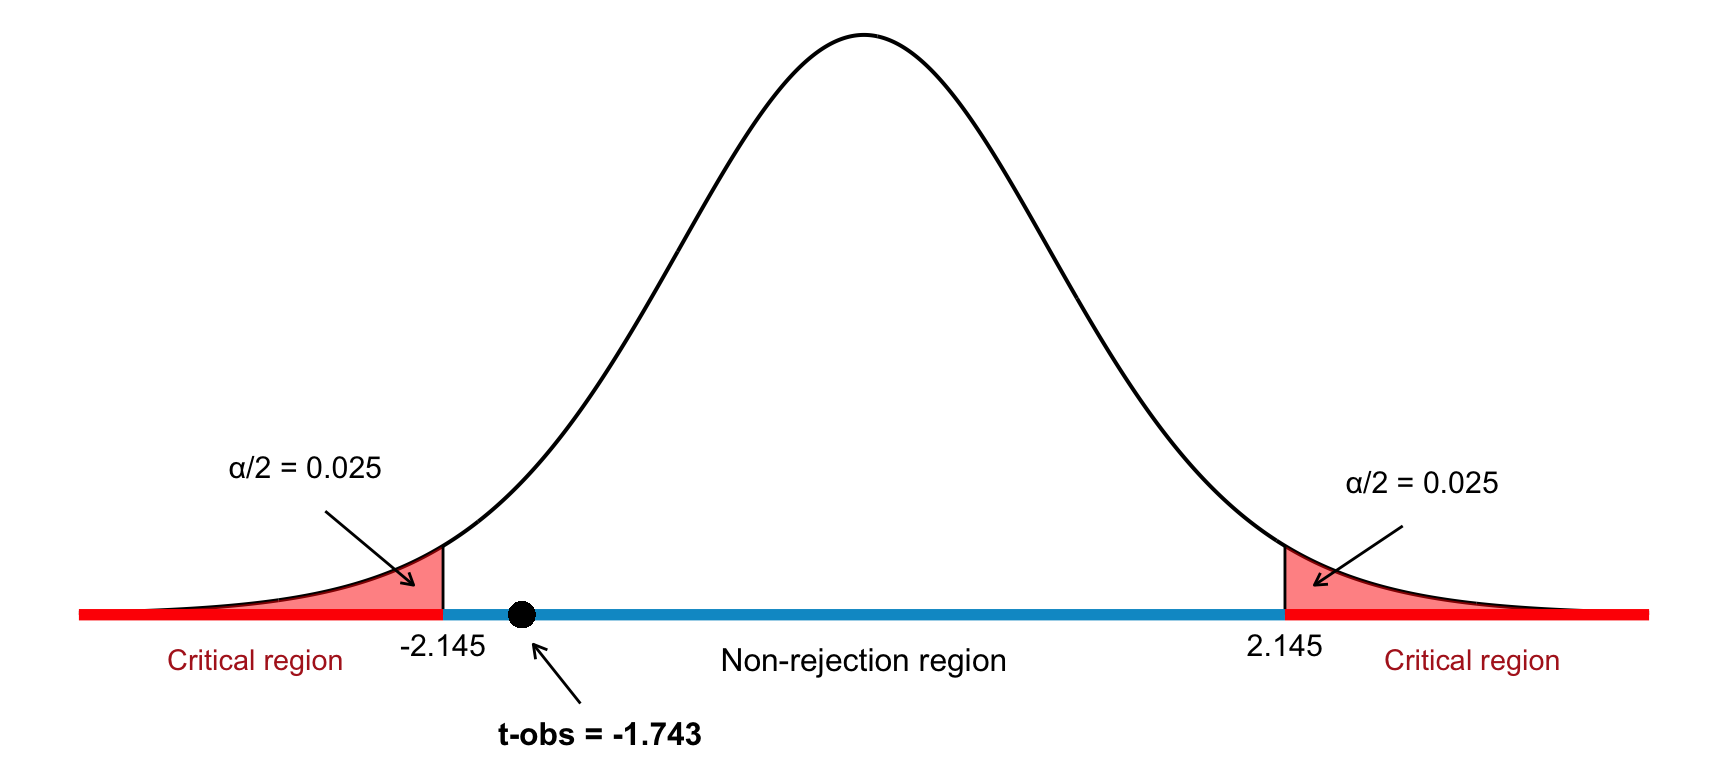
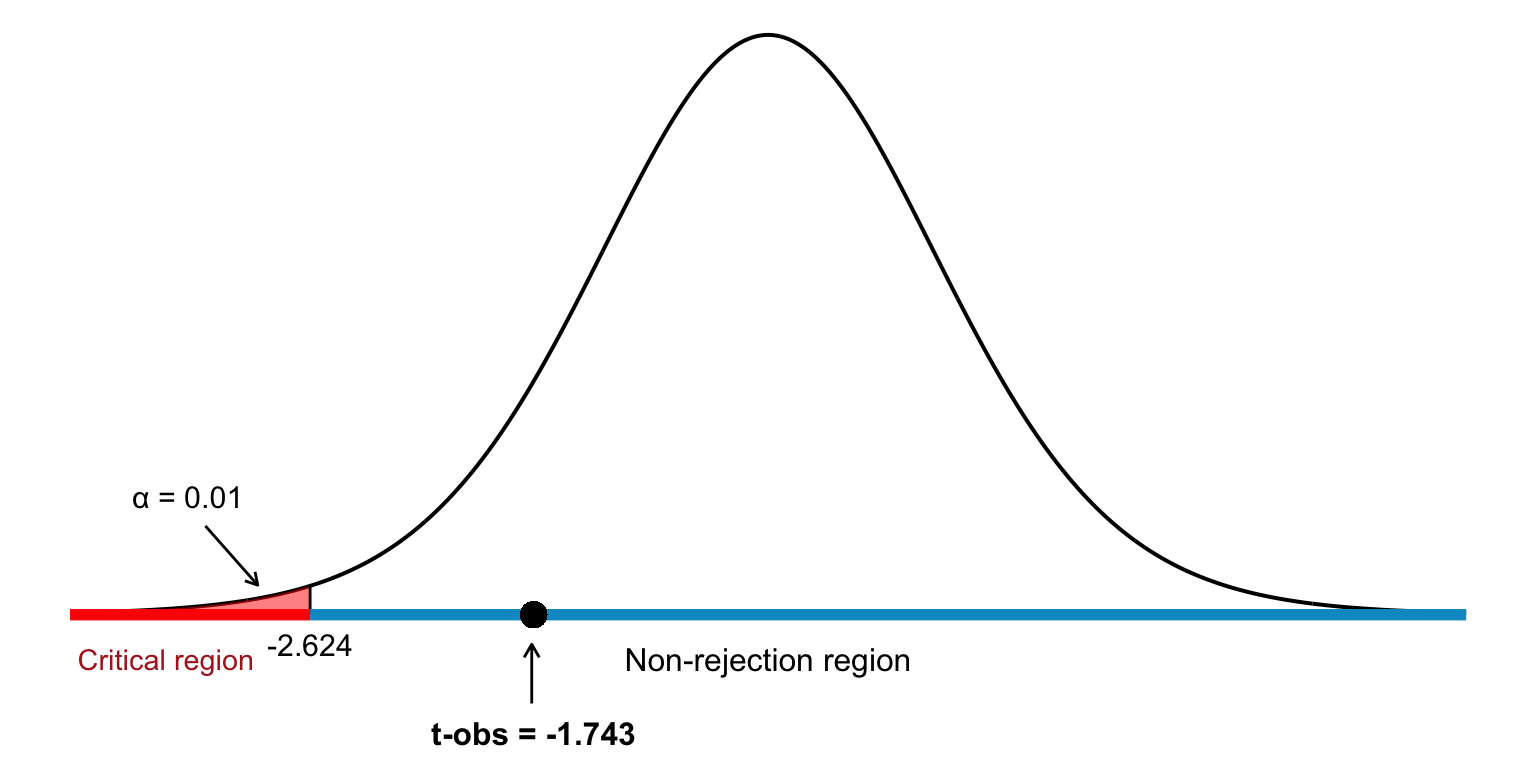
chapter 22 updated

diff --git a/docs/inferential/hyp-test.html b/docs/inferential/hyp-test.html
@@ -860,7 +860,7 @@ Figure&nbsp;22.4: The two-tailed test in Example 22.1 using the <span class="mat
 <p>We are given a random sample of size <span class="math inline">\(n = 15\)</span> drawn from a normally distributed population with unknown standard deviation. The sample has a mean <span class="math inline">\(\bar{x} = 24.1\)</span> and a sample standard deviation <span class="math inline">\(s = 2\)</span>. We want to test, at the 1% significance level, whether the population mean <span class="math inline">\(\mu\)</span> is less than 25.</p>
 <ul>
 <li><p><strong>Step 1: State the Hypotheses</strong><br>
-We are conducting a <strong>one-sided (left-tailed)</strong> test: <span class="math display">\[
+We are conducting a one-sided (left-tailed) test: <span class="math display">\[
 H_0: \mu = 25 \\
 H_1: \mu &lt; 25
 \]</span></p></li>
@@ -892,7 +892,7 @@ t = \frac{\bar{x} - \mu_0}{s / \sqrt{n}} = \frac{24.1 - 25}{2 / \sqrt{15}} \appr
 <div class="cell" data-layout-align="center">
 <div class="cell-output-display">
 <div class="quarto-figure quarto-figure-center">
-<figure class="figure"><p><img src="hyp-test_files/figure-html/unnamed-chunk-5-1.png" class="img-fluid quarto-figure quarto-figure-center figure-img" width="864"></p>
+<figure class="figure"><p><img src="hyp-test_files/figure-html/unnamed-chunk-5-1.png" class="img-fluid quarto-figure quarto-figure-center figure-img" width="768"></p>
 </figure>
 </div>
 </div>
